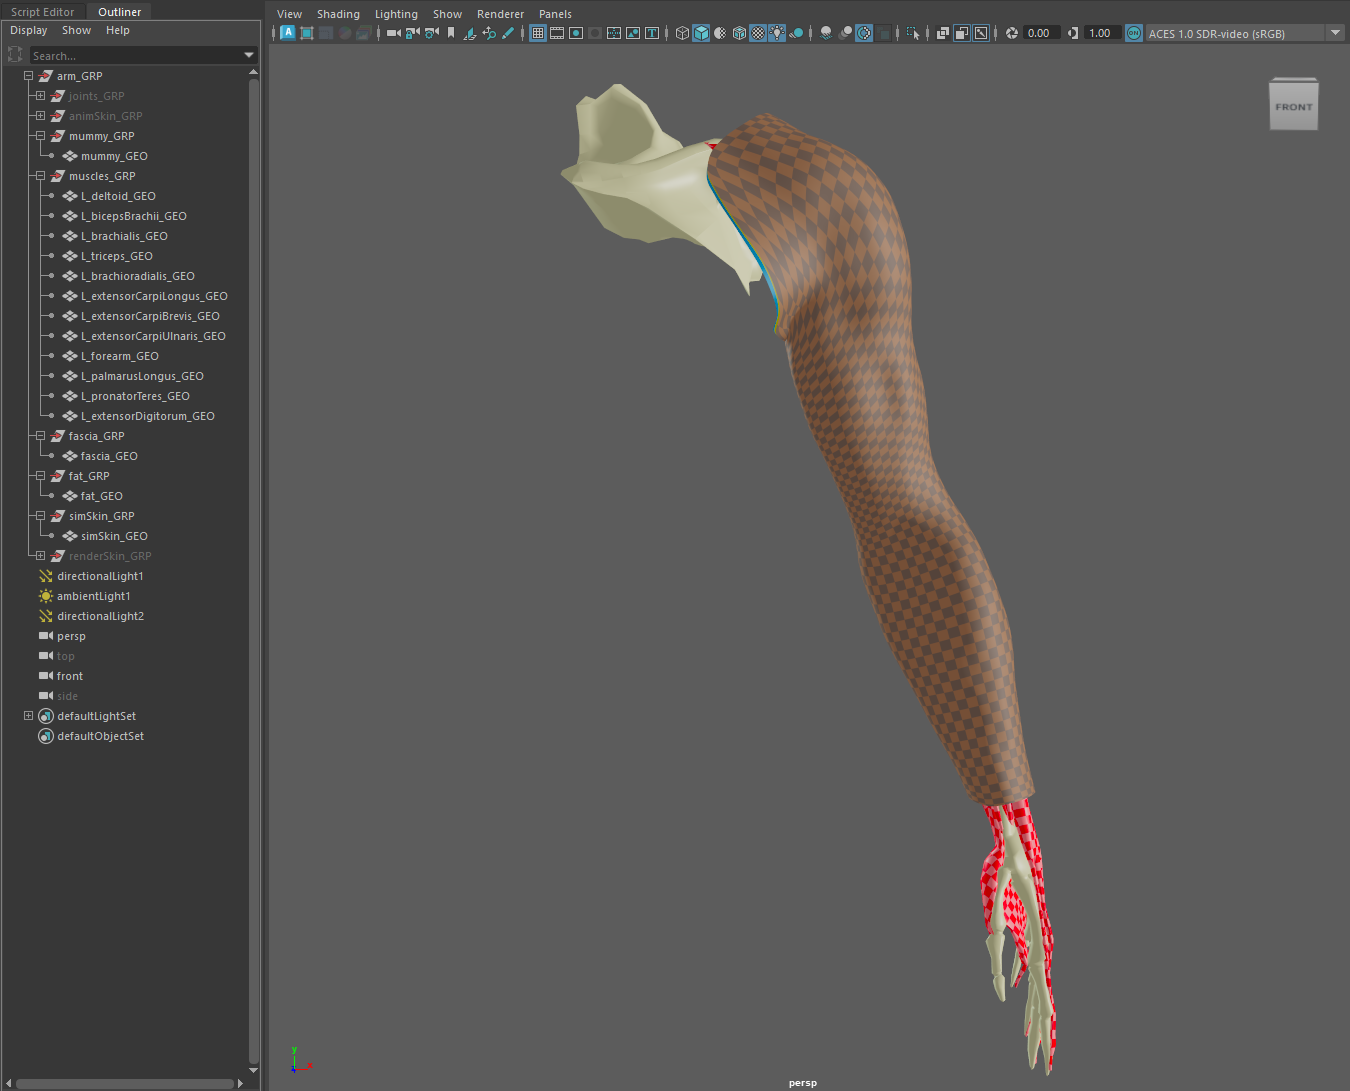
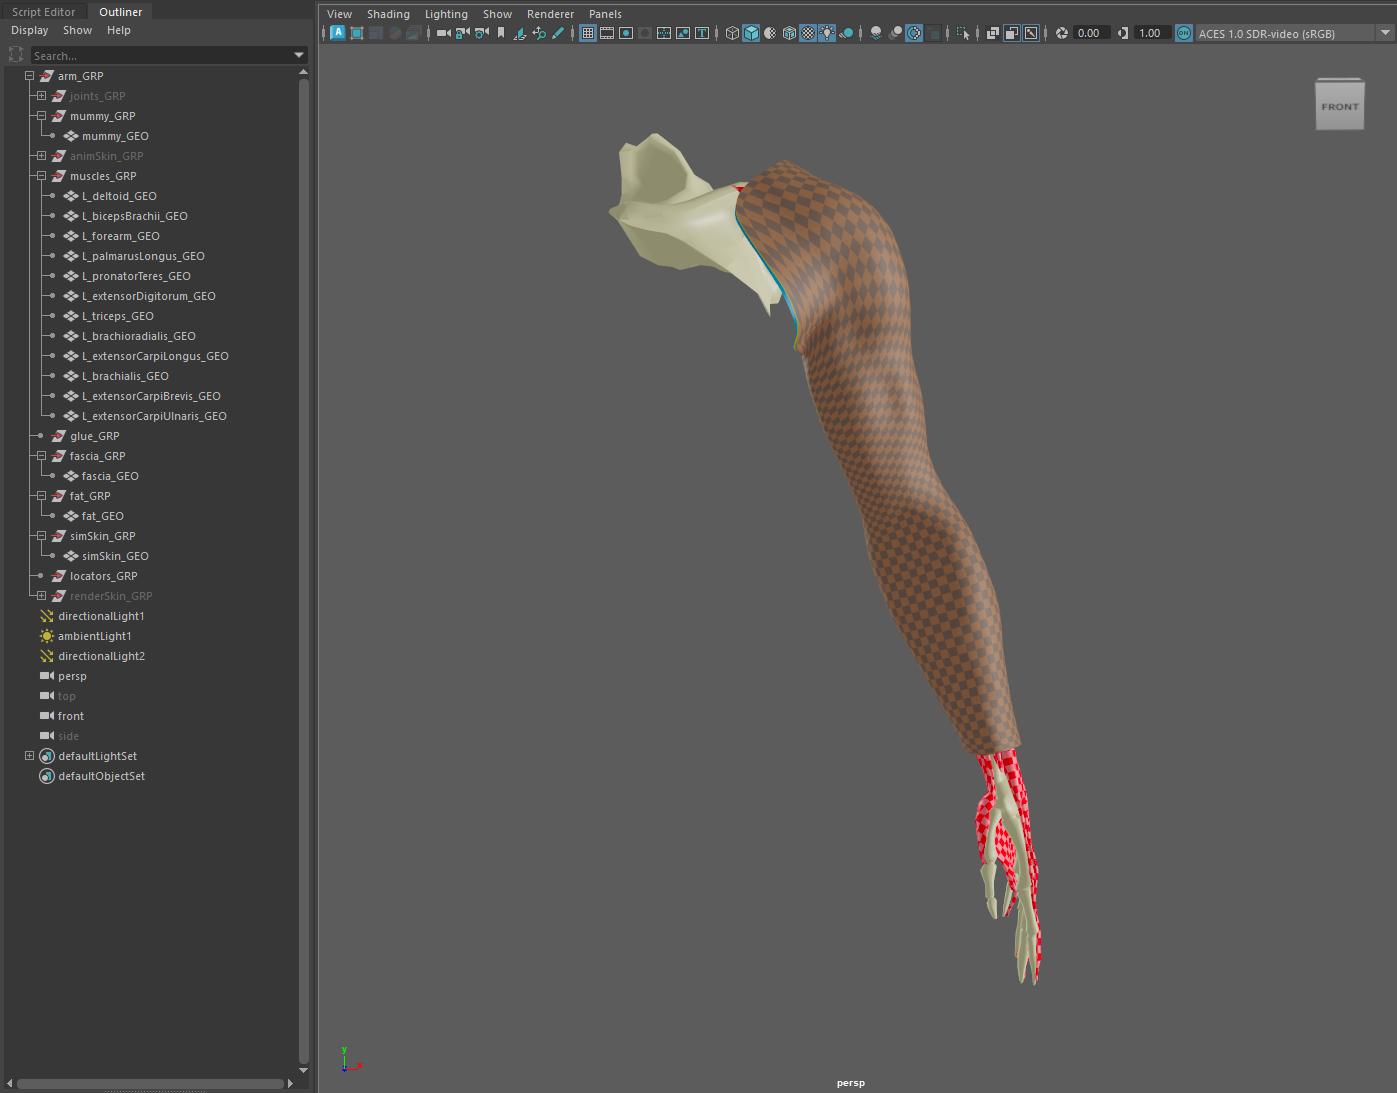
Updated screenshots of turbo setup. Updated content in turbo.md adding the new locators-related arguments. Updated limitations.

diff --git a/docs/maya/scripts/turbo.md b/docs/maya/scripts/turbo.md
@@ -1,8 +1,9 @@
 # AdnTurbo
 
-The AdnTurbo script is a Python script that automates the setup of an AdonisFX rig on a clean asset. It configures the following simulation layers in sequence:
+The AdnTurbo script is a Python script that automates the setup of an AdonisFX rig on a clean asset. It configures the following layers in sequence:
 
 - **Muscle layer**  
+- **Locators and Sensors**
 - **Glue layer**  
 - **Fascia layer**  
 - **Fat layer**  
@@ -15,23 +16,26 @@ The main function to run AdnTurbo is `apply_turbo`, which is defined as follows:
 <pre><code style="white-space: pre; margin: 20px 0; padding: 10px; box-sizing: border-box;">from adn.scripts.maya.turbo import apply_turbo
 
 def apply_turbo(
-    mummy,                    # str: name or path of the skeletal mesh
-    muscles,                  # str or list: muscle geometry names
-    fascia=None,              # str: fascia geometry name
-    fat=None,                 # str: fat geometry name
-    skin=None,                # str: skin geometry name
-    glue=False,               # bool: enable glue layer
-    glue_group=None,          # str: group name for glue output geometry
-    create_glue_group=True,   # bool: auto-create glue_group if it does not exist
-    space_scale=1.0,          # float: simulation scale factor
-    force=False,              # bool: remove existing AdonisFX nodes
-    report_data=None          # dict: collects errors and warnings
+    mummy,                          # str: name or path of the skeletal mesh
+    muscles,                        # str or list: muscle geometry names
+    fascia=None,                    # str: fascia geometry name
+    fat=None,                       # str: fat geometry name
+    skin=None,                      # str: skin geometry name
+    glue=True,                      # bool: enable glue layer
+    glue_group_name=None,           # str: group name for glue output geometry
+    create_glue_group=False,        # bool: auto-create glue_group_name if it does not exist
+    locators=True,                  # bool: enable creation of locators and sensors
+    locators_group_name=None,       # str: group name for locators and rivet nodes
+    create_locators_group=False,    # bool: auto-create locators_group_name if it does not exist
+    space_scale=1.0,                # float: simulation scale factor
+    force=False,                    # bool: remove existing AdonisFX nodes
+    report_data=None                # dict: collects errors and warnings
 )
 </code></pre>
 
 ## Requirements
 
-Each layer builds upon the previous one, this means that a specific layer cannot be created unless all the previous layer inputs have been provided.
+Each layer builds upon the previous one, this means that a specific layer cannot be created unless all the previous layer inputs have been provided. This rule applies to all the layers except for **Locators and Sensors**, which can be enabled or disabled without affecting the building of other layers.
 
 To configure at least the muscle layer, the following inputs are required:
 
@@ -42,6 +46,7 @@ When these two inputs are provided, the muscle layer will be completely configur
 
 To configure the downstream layers, the following inputs have to be provided:
 
+- **locators**: flag indicating if locators and sensors have to be built.
 - **glue**: flag indicating if the glue layer has to be built.
 - **fascia**: the fascia mesh to which AdnSkin is applied. The **glue** input must be `True` for the fascia layer to be built.
 - **fat**: the fat mesh to which AdnFat is applied. The **fascia** input must be provided for the fat layer to be built.
@@ -53,17 +58,20 @@ In this section we provide a brief overview of the arguments of the `apply_turbo
 
 | Argument | Required | Type | Default | Description |
 | :------- | :------- | :--- | :------ | :---------- |
-| **mummy**             | Yes      | string         |       | Skeletal mesh that drives the muscle simulation. It can be: 1) the name of the geometry (short name or full path); 2) a group containing the geometry. |
-| **muscles**           | Yes      | string or list |       | Geometries to apply a muscle deformer to. It can be: 1) name of one single geometry; 2) a transform group containing multiple geometries; 3) a list of geometry names; 4) a list of groups containing multiple geometries. |
-| **fascia**            | Optional | string         | None  | Geometry to apply the skin deformer to. It can be: 1) name of the fascia geometry; 2) group containing the fascia geometry. Requires `glue=True`. |
-| **fat**               | Optional | string         | None  | Geometry to apply the fat deformer to. It can be: 1) name of the fat geometry; 2) group containing the fat geometry. Requires fascia to be provided first. |
-| **skin**              | Optional | string         | None  | Geometry to apply the skin deformer to. It can be: 1) name of the skin geometry; 2) group containing the skin geometry. Requires fat to be provided first. |
-| **glue**              | Optional | bool           | False | If True, creates an AdnGlue node using all muscles as inputs. |
-| **glue_group**        | Optional | string         | None  | Name of the group where the glue geometry will be placed. |
-| **create_glue_group** | Optional | bool           | True  | If True and `glue_group` is provided, the group is created if it does not exist. |
-| **space_scale**       | Optional | float          | 1.0   | Factor to scale simulation space. It will be set to the space scale attribute of all the solvers created. |
-| **force**             | Optional | bool           | False | If True, deletes all existing AdonisFX nodes before executing to create the new nodes from a clean scene. Note that auxiliary nodes (e.g. rivets) or meshes created by an existing AdnGlue node will not be deleted. |
-| **report_data**       | Optional | dictionary     | None  | A dictionary (`{"errors": [], "warnings": []}`) to capture any issues during execution. |
+| **mummy**                 | Yes      | string         |       | Skeletal mesh that drives the muscle simulation. It can be: 1) the name of the geometry (short name or full path); 2) a group containing the geometry. |
+| **muscles**               | Yes      | string or list |       | Geometries to apply a muscle deformer to. It can be: 1) name of one single geometry; 2) a transform group containing multiple geometries; 3) a list of geometry names; 4) a list of groups containing multiple geometries. |
+| **fascia**                | Optional | string         | None  | Geometry to apply the skin deformer to. It can be: 1) name of the fascia geometry; 2) group containing the fascia geometry. Requires `glue=True`. |
+| **fat**                   | Optional | string         | None  | Geometry to apply the fat deformer to. It can be: 1) name of the fat geometry; 2) group containing the fat geometry. Requires fascia to be provided first. |
+| **skin**                  | Optional | string         | None  | Geometry to apply the skin deformer to. It can be: 1) name of the skin geometry; 2) group containing the skin geometry. Requires fat to be provided first. |
+| **glue**                  | Optional | bool           | True  | If True, creates an AdnGlue node using all muscles as inputs. |
+| **glue_group_name**       | Optional | string         | None  | Name of the group where the glue geometry will be placed. |
+| **create_glue_group**     | Optional | bool           | False | If True and `glue_group_name` is provided, the group is created if it does not exist. |
+| **locators**              | Optional | bool           | True  | If True, creates rivets, sensors and locators for each muscle. |
+| **locators_group_name**   | Optional | string         | None  | Name of the group where the locators and rivets will be placed. |
+| **create_locators_group** | Optional | bool           | False | If True and `locators_group_name` is provided, the group is created if it does not exist. |
+| **space_scale**           | Optional | float          | 1.0   | Factor to scale simulation space. It will be set to the space scale attribute of all the solvers created. |
+| **force**                 | Optional | bool           | False | If True, deletes all existing AdonisFX nodes before executing to create the new nodes from a clean scene. Note that auxiliary nodes (e.g. rivets) or meshes created by an existing AdnGlue node will not be deleted. |
+| **report_data**           | Optional | dictionary     | None  | A dictionary (`{"errors": [], "warnings": []}`) to capture any issues during execution. |
 
 ## How to use
 
@@ -78,6 +86,7 @@ In this section we provide a brief overview of the arguments of the `apply_turbo
 
 <pre><code style="white-space: pre; margin: 20px 0; padding: 10px; box-sizing: border-box;">mummy       = "mummy_GEO"
 muscles     = ["L_deltoid_GEO", "L_bicepsBrachii_GEO", "L_brachialis_GEO", "L_triceps_GEO", ...]
+locators    = True
 glue        = True
 fascia      = "fascia_GEO"
 fat         = "fat_GEO"
@@ -95,23 +104,27 @@ apply_turbo(
     fat=fat,
     skin=skin,
     glue=glue,
+    locators=locators,
     report_data=report_data
 )
 </code></pre>
 
-4. Additionally, to place the output glue geometry in a specific group, the group name can be provided via the `glue_group` argument. If the specified group does not exist, setting `create_glue_group` to `True` will make the AdnTurbo script to create it automatically.
+4. Additionally, to place the glue geometry in a specific group, specify its name via the `glue_group_name` argument. Likewise, to place locator and rivet nodes into their own group, use the `locators_group_name` argument. If the named group (for either glue or locators) does not exist, simply set the corresponding flag (i.e. `create_glue_group` or `create_locators_group` respectively) to `True`, and the AdnTurbo script will create it automatically.
 
 <pre><code style="white-space: pre; margin: 20px 0; padding: 10px; box-sizing: border-box;">from adn.scripts.maya.turbo import apply_turbo
 
-mummy             = "mummy_GEO"
-muscles           = ["L_deltoid_GEO", "L_bicepsBrachii_GEO", "L_brachialis_GEO", "L_triceps_GEO", ...]
-glue              = True
-glue_group        = "glue_GRP"
-create_glue_group = True
-fascia            = "fascia_GEO"
-fat               = "fat_GEO"
-skin              = "simSkin_GEO"
-report_data       = {"errors": [], "warnings": []}
+mummy                 = "mummy_GEO"
+muscles               = ["L_deltoid_GEO", "L_bicepsBrachii_GEO", "L_brachialis_GEO", "L_triceps_GEO", ...]
+glue                  = True
+glue_group_name       = "glue_GRP"
+create_glue_group     = True
+locators              = True
+locators_group_name   = "locators_GRP"
+create_locators_group = True
+fascia                = "fascia_GEO"
+fat                   = "fat_GEO"
+skin                  = "simSkin_GEO"
+report_data           = {"errors": [], "warnings": []}
 
 apply_turbo(
     mummy,
@@ -120,15 +133,18 @@ apply_turbo(
     fat=fat,
     skin=skin,
     glue=glue,
-    glue_group=glue_group,
+    glue_group_name=glue_group_name,
     create_glue_group=create_glue_group,
+    locators=locators,
+    locators_group_name=locators_group_name,
+    create_locators_group=create_locators_group,
     report_data=report_data
 )
 </code></pre>
 
 <figure style="width:90%; margin-left:5%" markdown>
   ![AdnTurbo Execution Completed](../images/turbo_script_02.png)
-  <figcaption><b>Figure 2</b>: All simulation layers configured after the execution: muscles, glue, fascia, fat and skin.</figcaption>
+  <figcaption><b>Figure 2</b>: All simulation layers configured after the execution: muscles, glue, fascia, fat and skin (including locators and sensors).</figcaption>
 </figure>
 
 5. If something goes wrong during the execution, error and warning messages will be added to the `report_data` dictionary. Execute the following code to log all the information in the terminal for troubleshooting.
@@ -164,3 +180,4 @@ As a result of executing the script by providing the geometries for all the laye
 - The glue layer cannot be bypassed. This means that if the `fascia` argument is provided, the `glue` flag must be `True` for the script to complete successfully.
 - If the `force` flag is set to `True` the script will automatically remove all the AdonisFX nodes from the scene (if any). However, other auxiliary nodes created in previous executions of the script will not be removed (i.e. glue output geometry, rivet nodes).
 - The default values that the AdnTurbo script will use to configure each deformer cannot be customized.
+- AdnTurbo does not support namespaces in object paths.

diff --git a/docs/maya/tools/turbo_tool.md b/docs/maya/tools/turbo_tool.md
@@ -93,3 +93,4 @@ As a result of executing the tool by providing the geometries for all the layers
 - The **Glue Layer** cannot be bypassed. This means that for the **Fascia Layer** to be enabled, the **Glue Layer** checkbox must be checked.
 - If the *Yes* button is pressed in the question dialog (see figure 5) the tool will automatically remove all the AdonisFX nodes from the scene. However, other auxiliary nodes created in previous executions of the script will not be removed (i.e. glue output geometry, rivet nodes).
 - The default values that AdnTurbo will use to configure each deformer cannot be customized.
+- AdnTurbo does not support namespaces in object paths.
